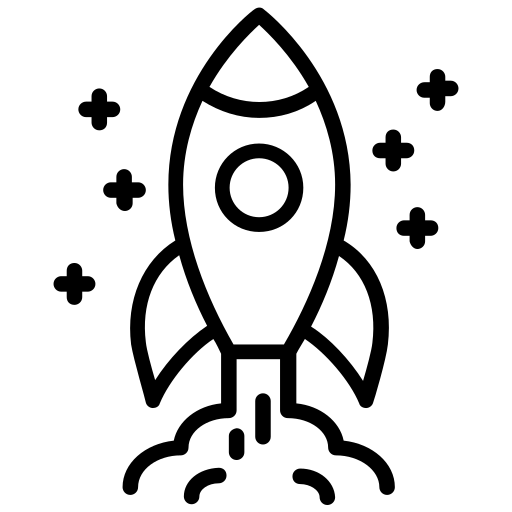
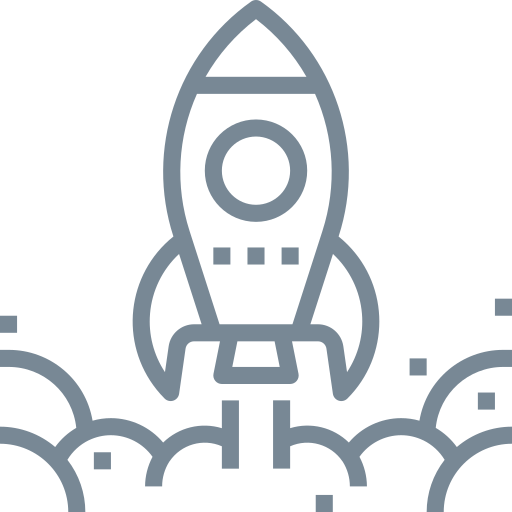
Designing Coming soon Page Component

diff --git a/src/index.css b/src/index.css
@@ -447,4 +447,30 @@ body {
     font-size: 1.2rem;
     color: var(--text-gray);
   }
+
+  /* ================== Coming Soon Page ==================  */
+
+  /* .coming__soon {
+    background-image: linear-gradient(to bottom, #ffcc00, #ffffff);
+    padding: 40px;
+    border-radius: 50%;
+  }
+
+  .coming__soon img {
+    background: var(--color-bg-white);
+    border-radius: 50%;
+  } */
+
+  .rocket__container {
+    display: flex;
+    flex-direction: column;
+    justify-content: center;
+    align-items: center;
+    gap: 10px;
+    color: #788895;
+
+    margin-top: 120px;
+
+    font-size: 1.4rem;
+  }
 }

diff --git a/src/component/coming/Coming.tsx b/src/component/coming/Coming.tsx
@@ -1,0 +1,17 @@
+// import React from "react";
+import Rocket from "../../assets/rocket.png";
+
+const Coming = () => {
+  return (
+    <>
+      <section>
+        <div className="rocket__container">
+          <img src={Rocket} alt="" width={200} />
+          <p>Coming Soon</p>
+        </div>
+      </section>
+    </>
+  );
+};
+
+export default Coming;

diff --git a/src/App.tsx b/src/App.tsx
@@ -1,11 +1,13 @@
+import Coming from "./component/coming/Coming";
 import Dashboard from "./component/dashboard/Dashboard";
 import Navbar from "./component/navbar/Navbar";
 
 function App() {
   return (
     <>
-      <Dashboard />
+      {/* <Dashboard /> */}
       <Navbar />
+      <Coming />
     </>
   );
 }
